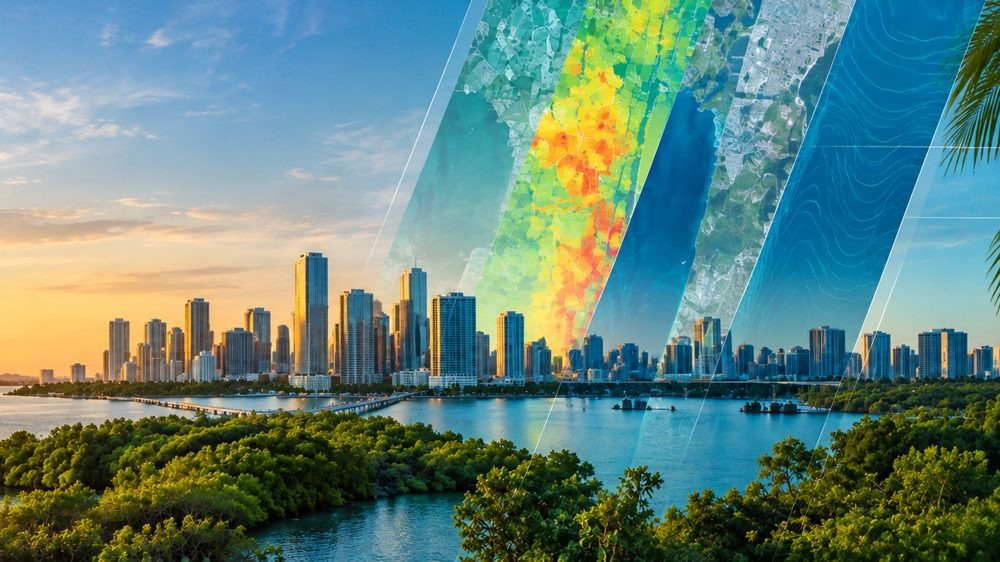
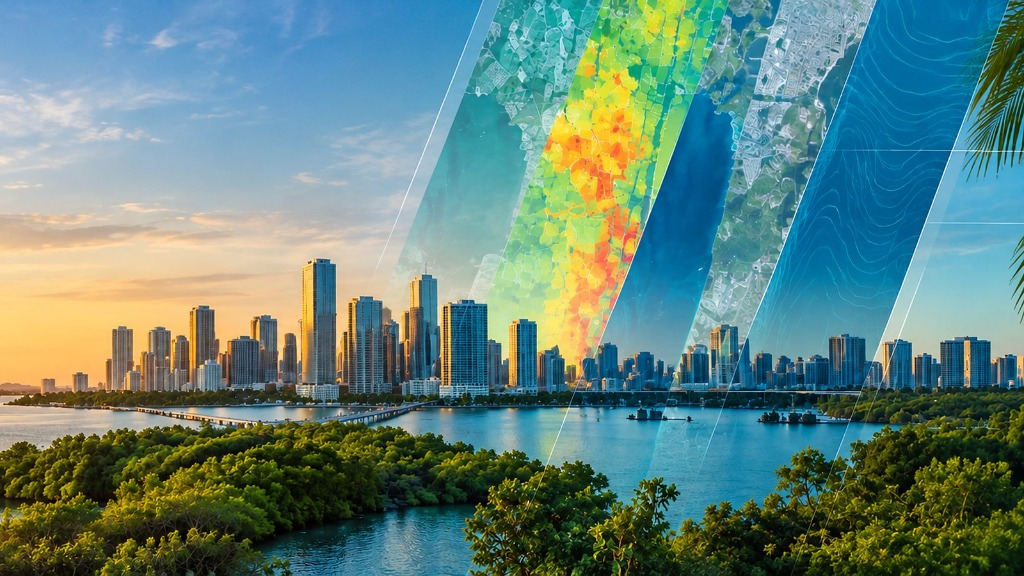
Update desktop and mobile hero skyline images

Changed region(s): [[0.217, 0.726, 0.248, 0.7562], [0.155, 0.605, 0.186, 0.6352]]

diff --git a/index.html b/index.html
@@ -35,7 +35,7 @@
 
 <section class="hero" id="home">
   <svg class="streets" viewBox="0 0 900 640" preserveAspectRatio="xMidYMid slice" aria-hidden="true"><path class="s-minor" d="M-264 -38L-143 447M-143 447L-70 738M-70 738L2 1029M-213 -51L-165 144M-165 144L-136 260M-136 260L-88 454M-88 454L-39 648M-39 648L9 842M-176 -60L-147 57M-147 57L-75 348M-2 639L70 930M70 930L119 1124M-118 -74L3 411M3 411L32 527M32 527L80 721M80 721L153 1012M-60 -89L61 396M61 396L109 590M109 590L138 707M138 707L259 1192M20 -109L68 85M68 85L189 571M189 571L261 862M261 862L290 978M56 -118L129 173M129 173L250 658M250 658L298 853M298 853L347 1047M214 358L335 843M335 843L456 1328M151 -141L272 344M272 344L301 460M301 460L350 654M350 654L398 848M398 848L471 1139M202 -154L231 -38M231 -38L304 253M304 253L425 739M425 739L454 855M282 -174L330 20M330 20L402 311M402 311L523 796M523 796L552 913M332 -186L405 105M453 299L501 493M501 493L574 784M574 784L603 900M382 -199L503 286M503 286L624 771M624 771L673 965M425 -210L473 -16M473 -16L503 101M575 392L696 877M462 -219L491 -102M491 -102L539 92M539 92L612 383M612 383L733 868M604 -48L633 68M633 68L662 185M662 185L734 476M734 476L763 592M763 592L884 1077M592 -251L665 40M665 40L786 525M642 -264L671 -147M671 -147L744 144M744 144L865 629M693 -276L741 -82M741 -82L862 403M862 403L911 597M911 597L959 791M736 -287L784 -93M784 -93L857 198M857 198L886 314M886 314L915 431M915 431L944 547M944 547L1065 1032M829 -310L858 -194M858 -194L930 97M930 97L1051 582M1051 582L1124 873M879 -323L1000 162M1000 162L1121 647M1121 647L1194 938M930 -336L1002 -44M1002 -44L1075 247M1075 247L1104 363M1104 363L1152 557M1152 557L1225 848M-297 12L-161 -22M-161 -22L-25 -56M-25 -56L111 -90M111 -90L615 -216M615 -216L751 -250M751 -250L887 -284M887 -284L1391 -409M-285 58L-72 5M-72 5L258 -77M258 -77L763 -203M763 -203L976 -256M-277 91L-64 38M-64 38L150 -15M150 -15L655 -141M655 -141L1159 -267M-269 124L61 42M61 42L566 -84M566 -84L896 -166M896 -166L1400 -292M-261 157L69 75M69 75L574 -51M574 -51L787 -104M787 -104L1292 -230M-249 204L81 121M81 121L411 39M411 39L741 -43M741 -43L1245 -169M-232 272L-96 238M564 73L894 -9M894 -9L1107 -62M-222 310L282 185M282 185L418 151M418 151L554 117M554 117L767 64M767 64L981 10M981 10L1311 -72M-215 339L-79 306M-79 306L134 252M134 252L464 170M464 170L794 88M794 88L1124 6M-205 378L-70 344M-70 344L66 311M66 311L202 277M416 223L551 190M551 190L687 156M687 156L823 122M823 122L1037 69M1037 69L1541 -57M-196 417L309 291M309 291L522 238M736 185L1066 103M-187 450L317 324M317 324L453 290M453 290L666 237M666 237L996 155M996 155L1501 29M-164 543L166 461M166 461L379 408M379 408L884 282M-155 582L-19 548M-19 548L195 495M195 495L331 461M466 427L680 374M680 374L816 340M952 306L1165 253M-143 629L71 575M71 575L400 493M400 493L730 411M-131 675L373 549M373 549L509 516M509 516L839 433M839 433L1169 351M-123 708L381 582M595 529L1099 403M1099 403L1429 321M-115 741L390 615M390 615L894 490M894 490L1108 436M-96 819L234 737M234 737L739 611M1069 528L1282 475M-88 848L125 795M261 761L591 679M591 679L804 625M804 625L940 591M940 591L1154 538M1154 538L1290 504M-81 877L132 824M462 742L792 659M792 659L1122 577M1122 577L1336 524M140 853L276 819M276 819L411 785M411 785L741 703M-62 953L151 899M151 899L656 774M656 774L1160 648M1160 648L1490 566"/><path class="s-major" d="M-306 -27L-186 458M-186 458L-137 652M-89 846L-40 1040M-17 -99L55 192M55 192L84 308M84 308L133 502M210 813L258 1007M239 -163L268 -47M268 -47L316 147M316 147L437 632M437 632L510 923M633 254L662 370M662 370L691 487M691 487L764 778M778 -298L899 187M899 187L948 381M948 381L1020 673M1020 673L1069 867M-306 -27L23 -110M159 -143L373 -197M373 -197L703 -279M703 -279L1033 -361M-239 242L-103 209M110 155L324 102M324 102L537 49M867 -33L1080 -87M-176 497L154 414M154 414L290 381M290 381L620 298M620 298L756 264M756 264L1260 139M-105 780L225 698M225 698L438 645M768 562L982 509M982 509L1195 456M-50 560L520 -40M120 700L900 180"/><path class="s-water" d="M640 -20 L651 14 L662 48 L672 82 L682 116 L690 150 L697 184 L703 218 L707 252 L709 286 L710 320 L709 354 L706 388 L701 422 L695 456 L687 490 L678 524 L669 558 L658 592 L647 626 L636 660M666 -20 L677 14 L688 48 L698 82 L708 116 L716 150 L723 184 L729 218 L733 252 L735 286 L736 320 L735 354 L732 388 L727 422 L721 456 L713 490 L704 524 L695 558 L684 592 L673 626 L662 660"/></svg>
-  <picture><source media="(max-width: 820px)" srcset="images/site/hero-skyline-mobile.jpg"><img class="photo" alt="Coastal city skyline and mangroves at sunset, with climate map layers" src="images/site/hero-skyline.png"></picture>
+  <picture><source media="(max-width: 820px)" srcset="images/site/hero-skyline-mobile.jpg"><img class="photo" alt="Coastal city skyline and mangroves at sunset, with climate map layers" src="images/site/hero-skyline.jpg"></picture>
   <div class="wrap"><div class="hero-text">
     <span class="eyebrow">Climate risk · Sustainability · Urban planning</span>
     <h1>I help governments and organisations understand climate risk, and <em>plan</em> what to do about it.</h1>
